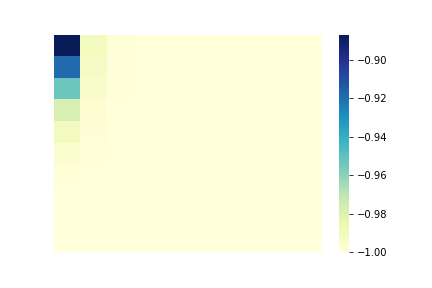
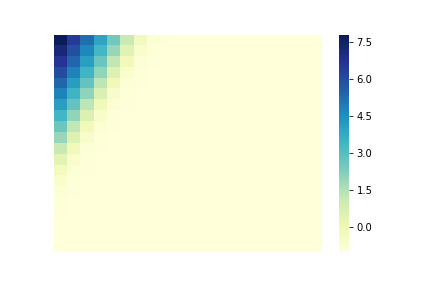
update

diff --git a/main.py b/main.py
@@ -20,13 +20,13 @@ from visualisation import heatmap
 tf.set_random_seed(42)
 
 # define training parameters:
-horizon = 2
+horizon = 3
 seed = 42
 bound = 1.0
 iters = 10000
-batch_size = 32
+batch_size = 50
 lr = 0.01
-prob = 1.0
+prob = 0.8
 R = 0.5
 
 ## define folder where things get saved:
